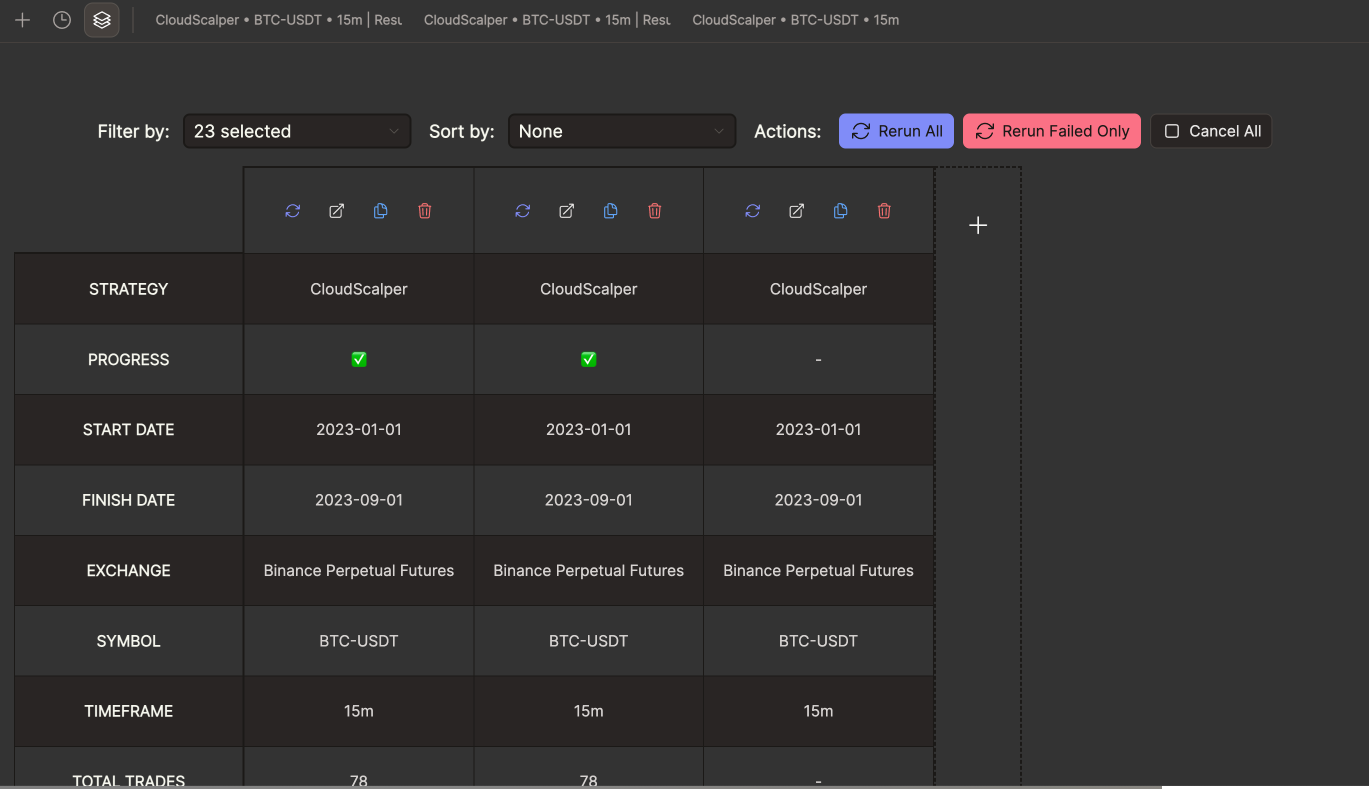
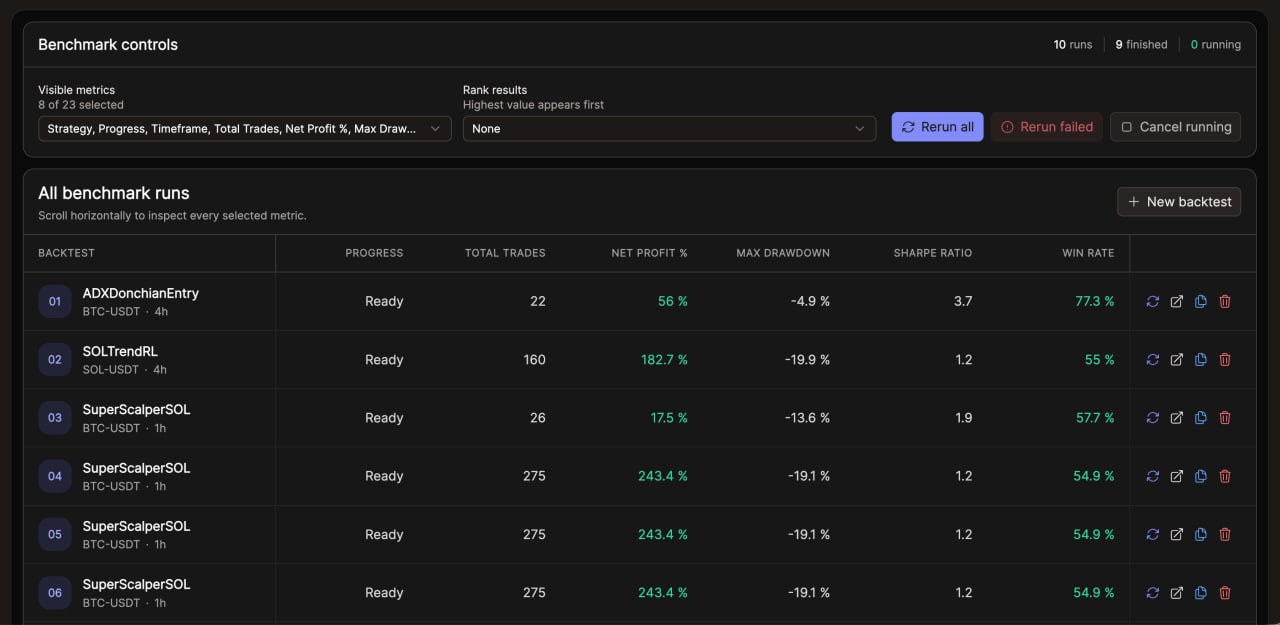
Refresh outdated documentation

diff --git a/docs/docs/backtest/exports.md b/docs/docs/backtest/exports.md
@@ -1,6 +1,6 @@
 # Exports
 
-After a backtest completes, Jesse can export your results in several formats so you can analyze trades in external tools, share results with others, or visualize entries and exits in TradingView.
+After a backtest completes, Jesse can export your results in several formats so you can analyze trades in external tools or share results with others.
 
 All export options are available in the **Options** section of the backtest form before you run the backtest. Enable the ones you need, then start the backtest as usual. Once it finishes, the download buttons for each enabled export will appear in the results panel.
 
@@ -29,28 +29,3 @@ Once the backtest finishes, click the **Download JSON** button in the results pa
 ### Community Tool: Jesse Trades Info
 
 A community member has built a tool called **Jesse Trades Info** that parses Jesse's JSON export and displays trades in an interactive interface with tables and charts. You can find screenshots, a demo video, and installation instructions on its [GitHub repository](https://github.com/nicolay-zlobin/jesse-trades-info).
-
-## TradingView Pine Script
-
-This export is for users who do their charting in [TradingView](https://www.tradingview.com). Jesse generates a Pine Script file that, when pasted into TradingView's Pine Editor, will plot your strategy's entry and exit points directly on a TradingView chart.
-
-**How to enable:** Check the **Export TradingView** option in the backtest form before starting.
-
-Once the backtest finishes, click the **Download Pine Script** button. Then:
-
-1. Open the downloaded `.txt` file and copy its entire contents.
-2. Go to [TradingView](https://www.tradingview.com) and open the **Pine Editor** (bottom panel).
-3. Paste the content into the editor.
-4. Click **Add to chart**.
-
-::: warning
-Make sure the TradingView chart is set to the **same symbol and timeframe** as the backtest. Entries and exits will appear misaligned otherwise.
-:::
-
-::: warning
-TradingView limits the number of plotted points, so only approximately the last **~30 trades** will be visible. This is a limitation on TradingView's side, not Jesse's.
-:::
-
-::: warning
-The performance metrics shown in TradingView's backtesting panel will differ from Jesse's results. TradingView is not a dedicated backtesting platform — its simulation engine makes different assumptions about order execution. Jesse's numbers are the accurate ones.
-:::

diff --git a/docs/docs/backtest/index.md b/docs/docs/backtest/index.md
@@ -21,5 +21,5 @@ Once the backtest completes, you will see a comprehensive [results panel](./resu
 - **[Results](./results.md)** — A full reference for every metric in the results table and how to interpret it
 - **[Charts](./charts.md)** — Interpreting the full set of performance charts: cumulative returns, drawdown periods, underwater plot, monthly heatmap, and trade P&L distribution
 - **[Interactive Charts](../charts/interactive-charts.md)** — Visually inspecting every trade entry and exit on a candlestick chart
-- **[Exports](./exports.md)** — Exporting results to CSV, JSON, TradingView Pine Script, and legacy charts
+- **[Exports](./exports.md)** — Exporting results to CSV and JSON
 - **[Benchmark](./benchmark.md)** — Running multiple backtest configurations simultaneously and comparing them ✨
